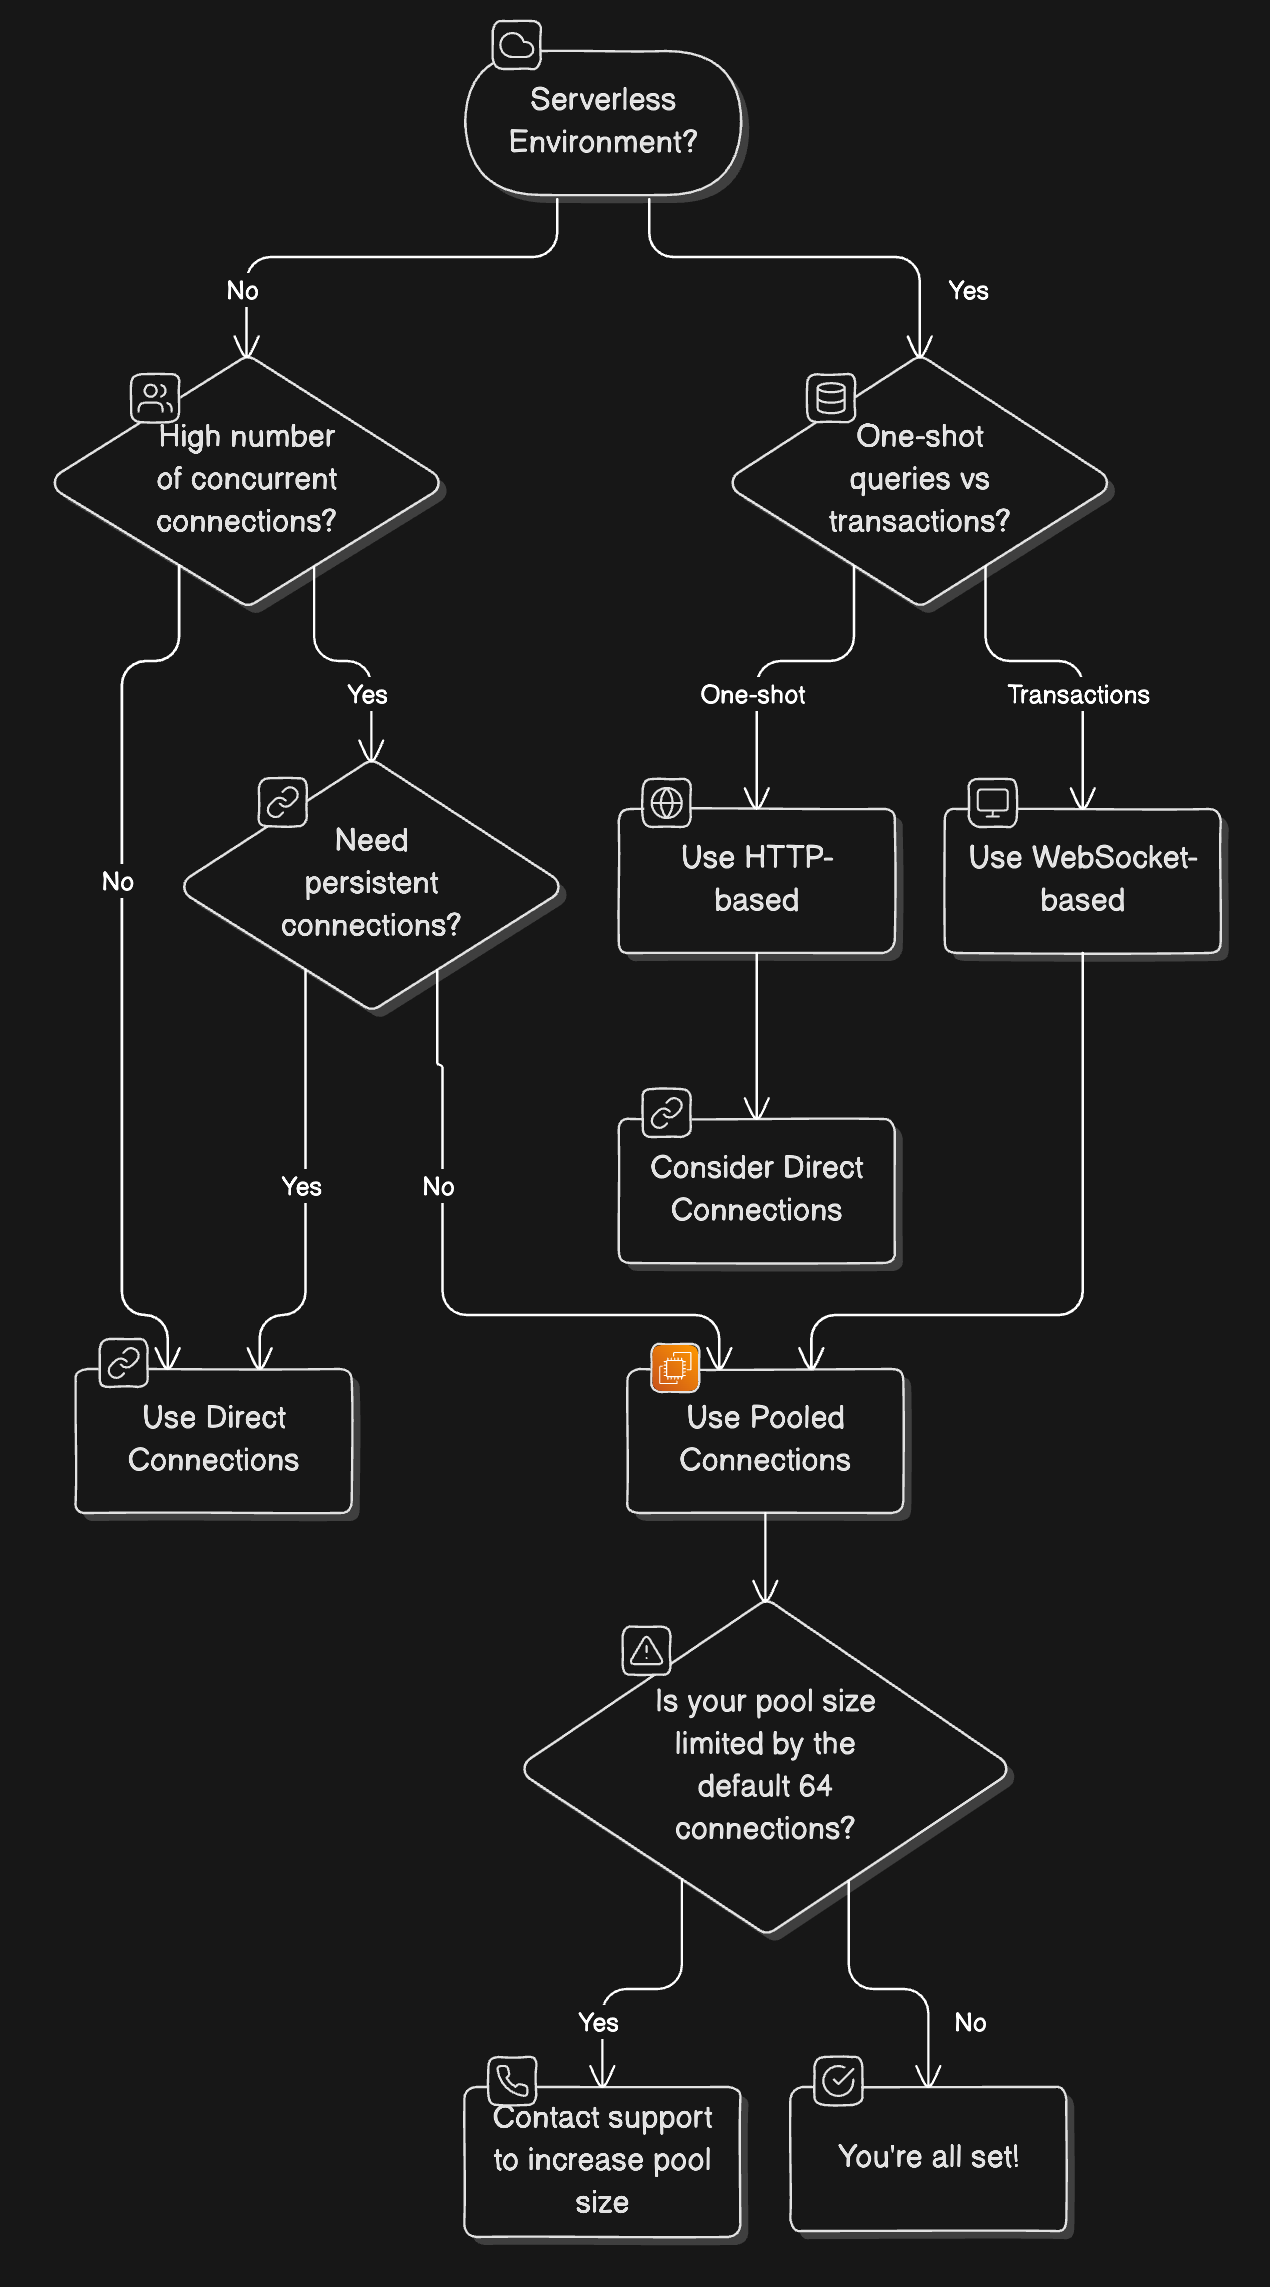
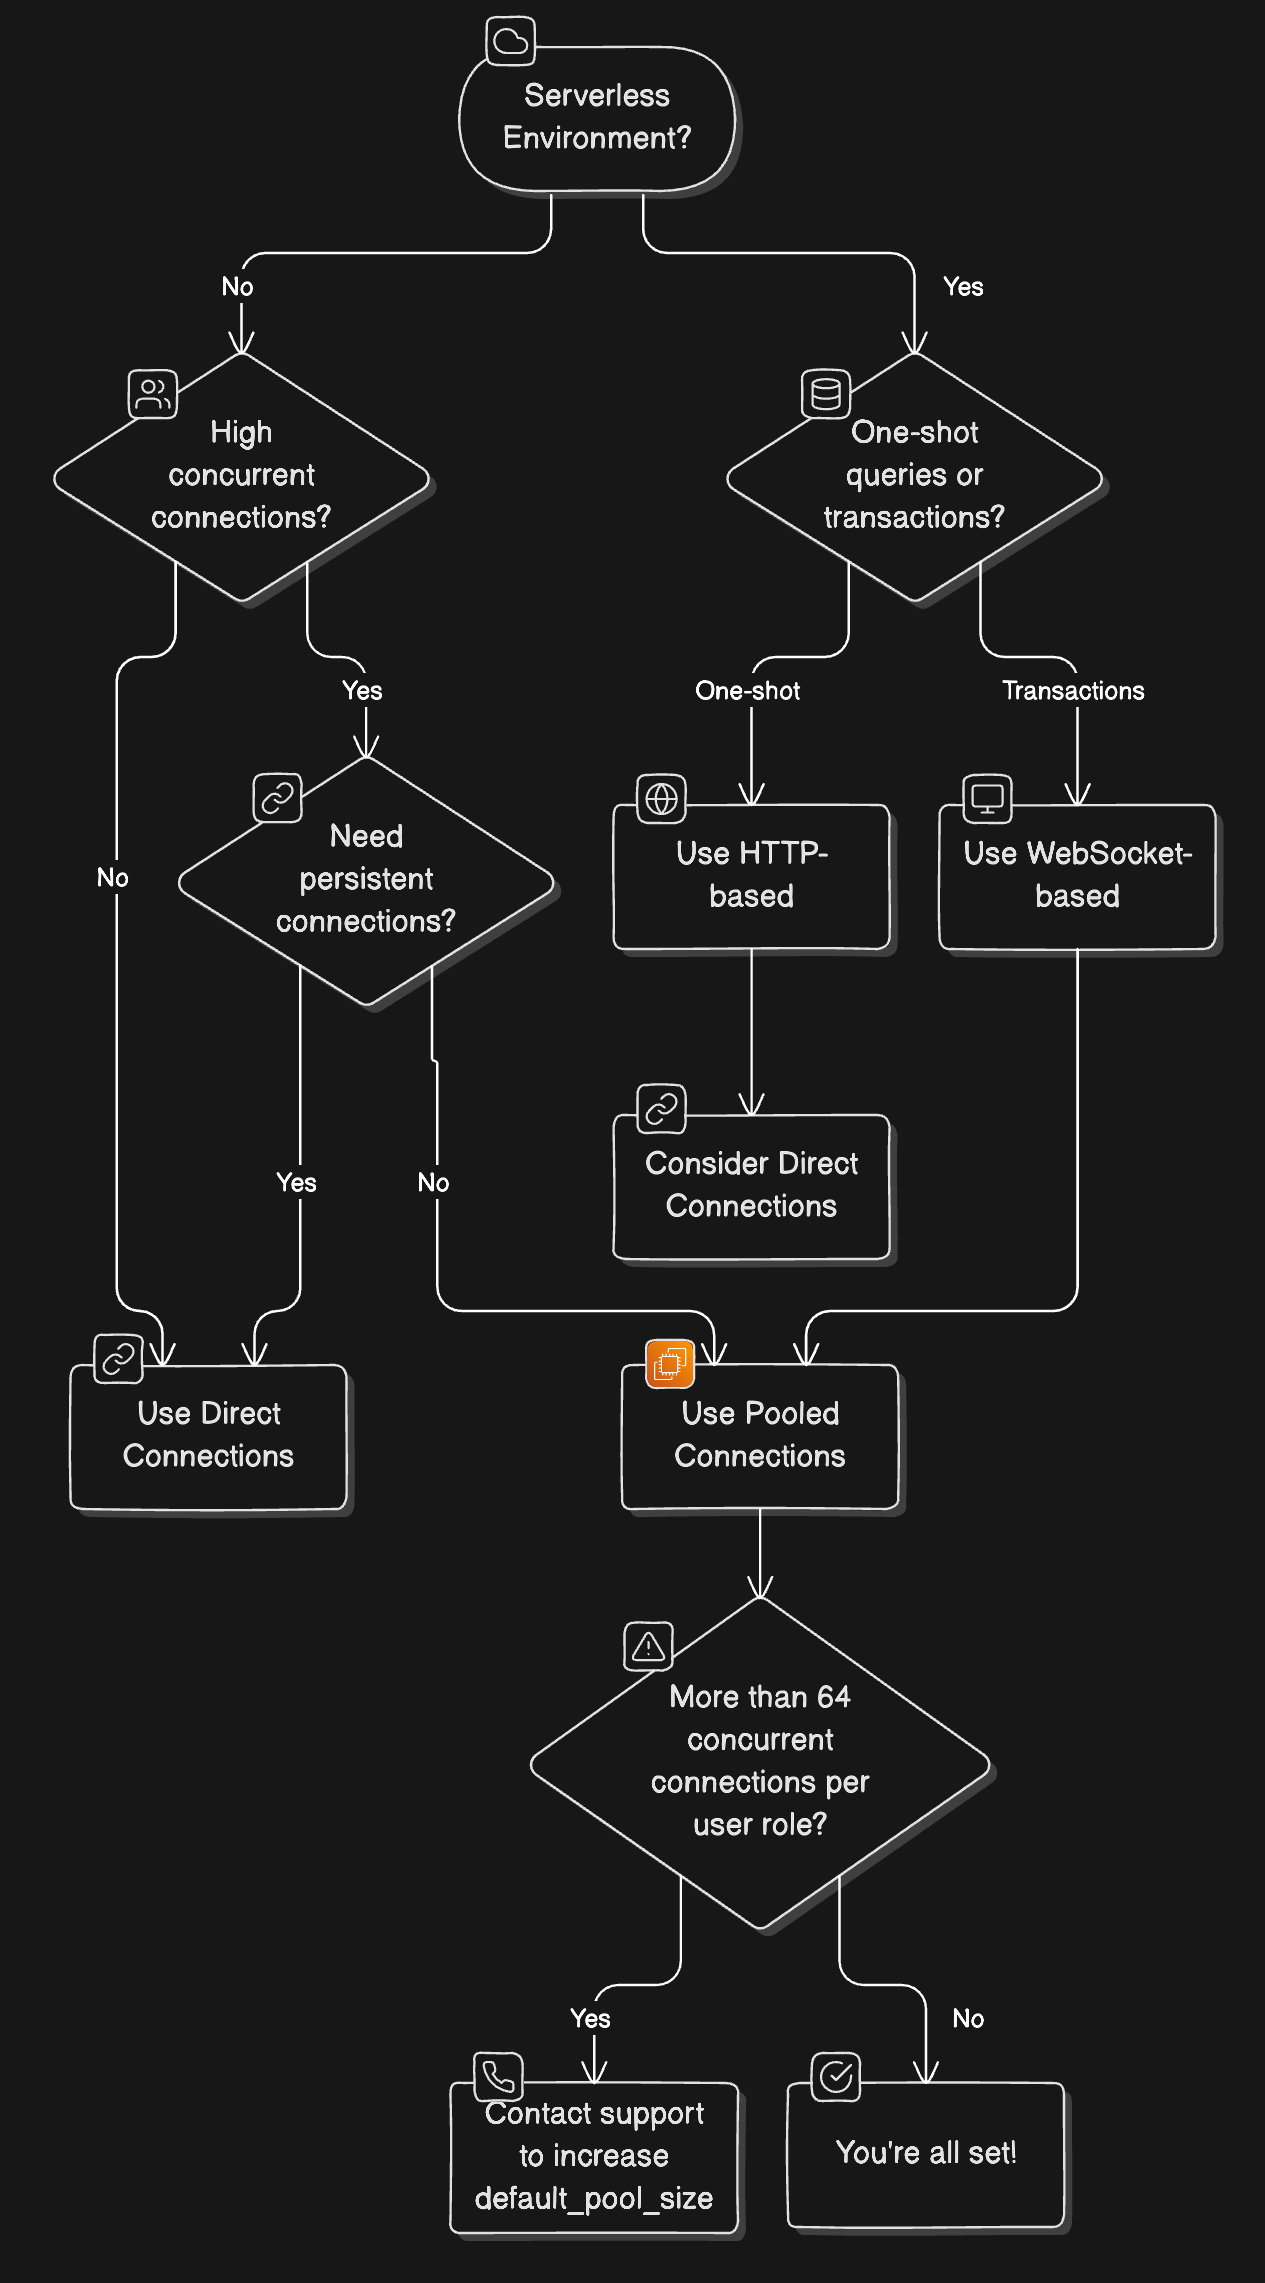
docs: fixes

diff --git a/content/docs/connect/choose-connection.md b/content/docs/connect/choose-connection.md
@@ -1,13 +1,13 @@
 ---
-title: Choosing your connection type
-subtitle: Rules of thumb for choosing one connection type over another
+title: Choosing your driver connection type
+subtitle: Rules of thumb for choosing the right driver and connection type for your application
 enableTableOfContents: true
 ---
 
 When setting up your application’s connection to your Neon Postgres database, you need to make two main choices:
 
 - **Postgres driver type**: Serverless driver vs. TCP-based driver
-- **Connection type**: pooled vs. unpooled
+- **Connection type**: pooled vs. direct
 
 This flowchart will guide you through these selections.
 
@@ -19,27 +19,42 @@ This flowchart will guide you through these selections.
 
 ### Step 1: Choose your Postgres driver
 
-Your first choice is which driver to use. If working in a serverless environment and connecting from a JavaScript and TypeScript application, consider using the [Neon Serverless Driver](/docs/serverless/serverless-driver). This is a low-latency Postgres driver that allows you to query data from serverless and edge environments over HTTP or WebSockets instead of TCP. It's built to handle dynamic workloads with high variability in traffic &#8212; for example, Vercel Edge Functions or Cloudflare Workers.
+Your first choice is which driver to use:
 
-If you're not connecting from a JavaScript or TypeScript application or you are not developing a serverless application, use a traditional TCP-based Postgres driver. For example, if you’re using Node.js with a framework like Next.js, you can add the `pg` client to your dependencies, which serves as the Postgres driver for TCP connections.
+- **Serverless**
 
-### Step 2: If serverless, choose HTTP or WebSocket connections
+   If working in a serverless environment and connecting from a JavaScript and TypeScript application, we recommend using the [Neon Serverless Driver](/docs/serverless/serverless-driver). It handles dynamic workloads with high variability in traffic &#8212; for example, Vercel Edge Functions or Cloudflare Workers.
+- **TCP-based driver**
 
-Neon offers two types of serverless connections: HTTP and WebSocket.
+   If you're not connecting from a JavaScript or TypeScript application or you are not developing a serverless application, use a traditional TCP-based Postgres driver. For example, if you’re using Node.js with a framework like Next.js, you can add the `pg` client to your dependencies, which serves as the Postgres driver for TCP connections.
 
-- **Use HTTP for**: One-shot queries and short-lived operations where connection setup and teardown costs are minimal.
-- **Use WebSocket for**: [Transactions](/docs/postgresql/query-reference#transactions) and operations requiring persistent connections over a session. WebSocket connections provide lower latency for multiple queries in the same session.
+#### HTTP or WebSockets
+
+If you are using the serverless driver, you also need to choose whether to query over HTTP or WebSockets:
+
+- **HTTP**
+
+   Querying over an HTTP [fetch](https://developer.mozilla.org/en-US/docs/Web/API/Fetch_API) request is faster for single, non-interactive transactions, also referred to as "one-shot queries". Issuing [multiple queries](/docs/serverless/serverless-driver#issue-multiple-queries-with-the-transaction-function) via a single, non-interactive transaction is also supported. See [Use the driver over HTTP](/docs/serverless/serverless-driver#use-the-driver-over-http).
+
+- **WebSockets**
+
+   If you require session or interactive transaction support or compatibility with [node-postgres](https://node-postgres.com/) (the popular **npm** `pg` package), use WebSockets. See [Use the driver over WebSockets](/docs/serverless/serverless-driver#use-the-driver-over-websockets).
 
 <Admonition type="note">
 We are working on automatic switching between HTTP and WebSocket to as needed. Check our [roadmap](/docs/introduction/roadmap) to see what's coming soon and our Friday [Changelog](/docs/changelog) for the features-of-the-week.
 </Admonition>
 
-### Step 3: Next, choose your connection type: direct or pooled
+### Step 2: Next, choose your connection type: direct or pooled
 
 You then need to decide whether to use direct connections or pooled connections using PgBouncer:
 
-- **In general, use pooled connections whenever you can**: Pooled connections can efficiently manage high numbers of concurrent connections, supporting up to 10,000 concurrent connections. This 10,000 connection limit is most useful for serverless applications and application-side connection pools that have many open connections, but infrequent and/or short transactions.
-- **Use direct (unpooled) connections if you need persistent connections**: If your application is focused mainly on tasks like migrations or administrative operations that require stable and long-lived connections, use an unpooled connection.
+- **In general, use pooled connections whenever you can**
+
+   Pooled connections can efficiently manage high numbers of concurrent connections, supporting up to 10,000 concurrent connections. This 10,000 connection limit is most useful for serverless applications and application-side connection pools that have many open connections, but infrequent and/or short transactions.
+
+- **Use direct (unpooled) connections if you need persistent connections**
+
+   If your application is focused mainly on tasks like migrations or administrative operations that require stable and long-lived connections, use an unpooled connection.
 
 <Admonition type="note">
 The use of connection pooling is not a magic bullet. PgBouncer has a `default_pool_size` of 64, meaning it can handle only 64 direct connections to the database at any one time. When your application connects to PgBouncer, it joins a large pool, but only 64 connections are processed at a time. Long operations can cause these connections to time out or close before tasks are completed.
@@ -57,6 +72,8 @@ Here are some key points to help you navigate potential issues.
 |----------------------|-----------------------------------------------------------------------------------------------------------------------------------------------------------------------------------------------------------------------------------------------------------------|
 | Double Pooling | Avoid using client-side pooling if you're using PgBouncer on the Neon side. Just let Neon handle the pooling to prevent retaining unused connections on the client side. If you must use client-side pooling, make sure it releases connections back to the pool early enough to avoid conflicts with PgBouncer. |
 | Understanding Limits | Don't confuse `max_connections` with `default_pool_size`.<br /><br />`max_connections` is the maximum number of concurrent connections allowed by PostgreSQL and is determined by your compute size.<br /><br />`default_pool_size` is the maximum number of connections PgBouncer will pool per user/database pair, which is set to 64 by default.<br /><br />Simply increasing your compute to get more `max_connections` may not improve performance if the bottleneck is actually on your `default_pool_size`. To increase your `default_pool_size`, contact support. |
+| Use request handlers | In serverless environments such as Vercel Edge Functions or Cloudflare Workers, WebSocket connections can't outlive a single request. That means Pool or Client objects must be connected, used and closed within a single request handler. Don't create them outside a request handler; don't create them in one handler and try to reuse them in another; and to avoid exhausting available connections, don't forget to close them. See [Pool and Client](https://github.com/neondatabase/serverless?tab=readme-ov-file#pool-and-client) for details.|
+
 
 ## Connection types for typical applications
 
@@ -161,7 +178,7 @@ Here are some key points to help you navigate potential issues.
 Here is a table summarizing the options we've walked through on this page:
 
 | Feature                   | Direct Connections                                                                                   | Pooled Connections                                                                   | Serverless Driver (HTTP)                 | Serverless Driver (WebSocket)                 |
-| ------------------------- | ---------------------------------------------------------------------------------------------------- | ------------------------------------------------------------------------------------ | ---------------------------------------- | --------------------------------------------- | --- |
+| ------------------------- | ---------------------------------------------------------------------------------------------------- | ------------------------------------------------------------------------------------ | ---------------------------------------- | --------------------------------------------- |
 | **Use Case**              | Migrations, admin tasks requiring stable connections                                                 | High number of concurrent connections, efficient resource management                 | One-shot queries, short-lived operations | Transactions requiring persistent connections |
 | **Connection Management** | Persistent connections                                                                               | Pooled per transaction                                                               | Rapid open/close connections             | Rapid open/close connections                  |
 | **Scalability**           | Limited by `max_connections` tied to [compute size](/docs/manage/endpoints#how-to-size-your-compute) | Default pool size of 64 connections per user/database, can be increased with support | Automatically scales                     | Automatically scales                          |     |
